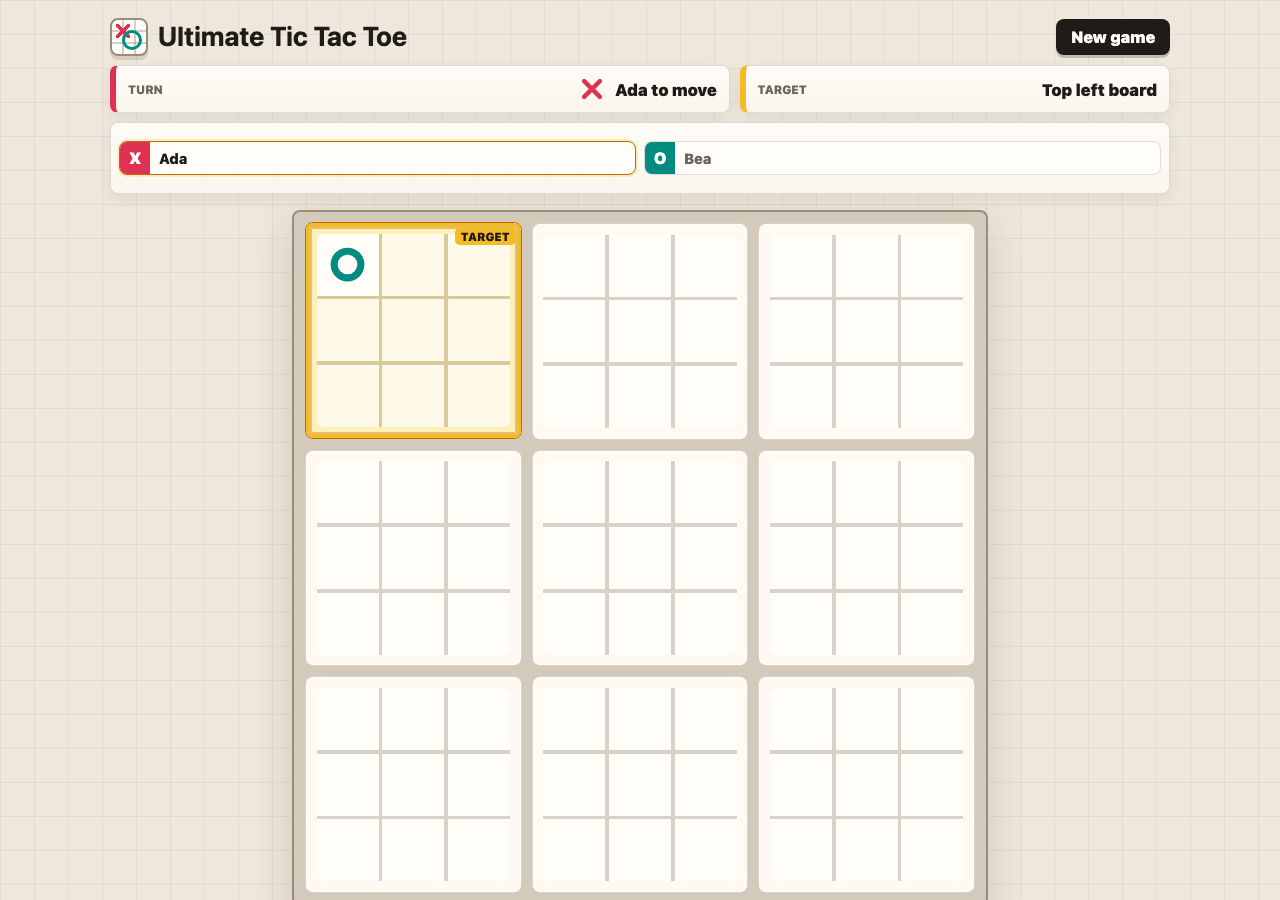
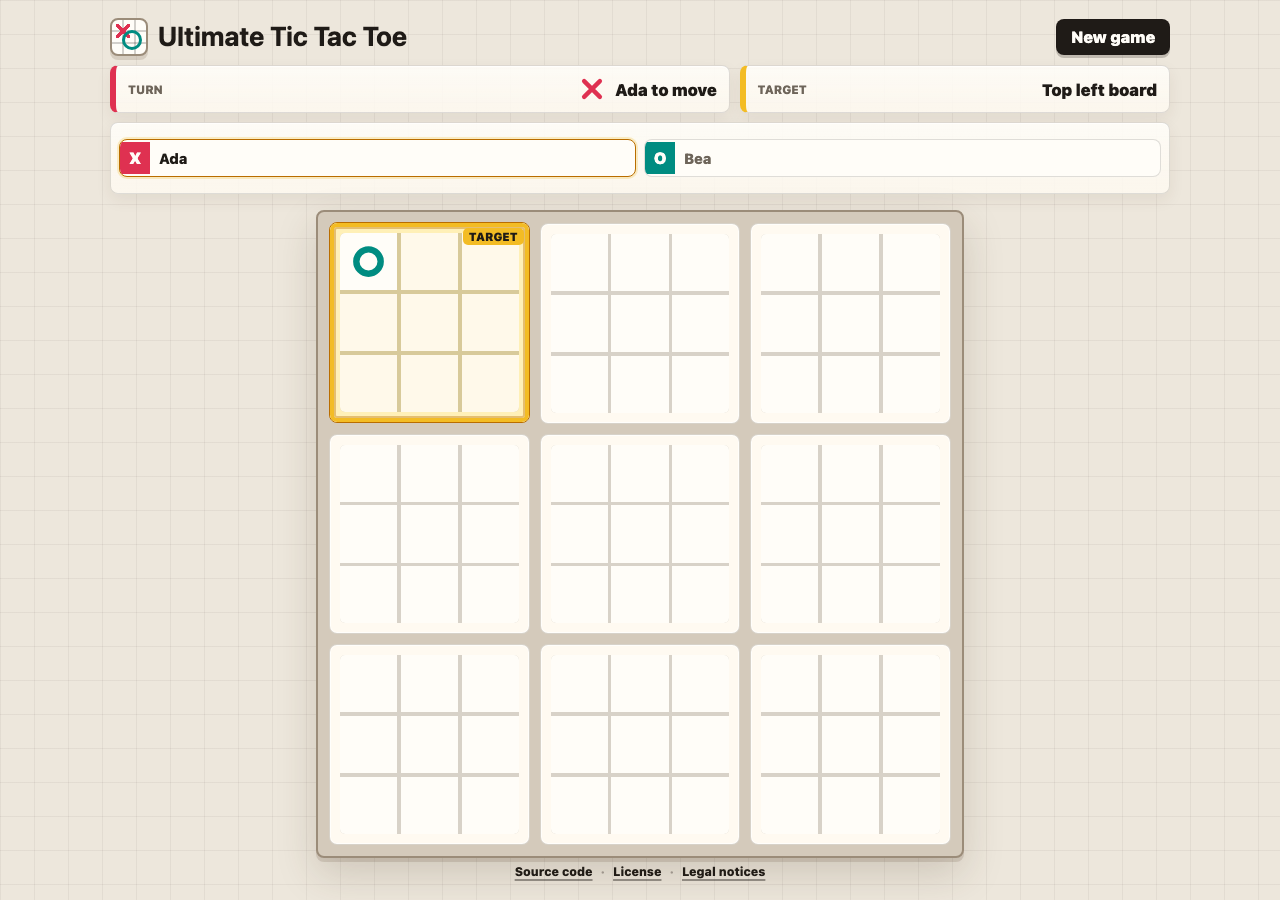
Stabilize player row screenshot baselines

Changed region(s): [[0.0938, 0.1867, 0.7812, 1.0], [0.0938, 0.1244, 0.4688, 0.1556]]

diff --git a/static/style.css b/static/style.css
@@ -409,6 +409,12 @@ h1{
     font-weight: 800;
 }
 
+.player-field input::placeholder{
+    color: var(--muted);
+    font-weight: 750;
+    opacity: 0.78;
+}
+
 .player-field input:focus{
     outline: 3px solid rgba(243, 188, 36, 0.38);
     outline-offset: -3px;
@@ -508,6 +514,7 @@ h1{
     grid-template-columns: 30px minmax(0, 1fr) auto;
     align-items: center;
     min-width: 0;
+    min-height: 38px;
     flex: 1 1 0;
     overflow: hidden;
     border: 1px solid rgba(31, 27, 23, 0.14);
@@ -599,10 +606,6 @@ h1{
     padding: clamp(7px, 1.25svh, 11px);
     background: var(--table);
     box-shadow: 0 16px 40px var(--shadow), 0 4px 0 rgba(109, 91, 68, 0.18);
-}
-
-.game-shell.is-started .macro-board{
-    width: min(92vw, calc(100svh - 174px - var(--footer-space)), 704px);
 }
 
 .local-board{

diff --git a/docs/RELIABILITY.md b/docs/RELIABILITY.md
@@ -36,7 +36,7 @@ the app locally without hidden service dependencies.
 - Use `scripts/validate-docs.lisp` for repository-harness validation.
 - Use `scripts/browser-smoke.mjs` for browser-driven desktop/mobile rendering,
   HTMX swap, computer-opponent play, CSRF-form, accessibility structure,
-  keyboard flow, modal focus, and overflow validation.
+  keyboard flow, modal focus, screenshot regression, and overflow validation.
 - Use `nix flake check` before treating a change as ready.
 - For larger UI work, still run the app manually when visual judgment matters;
   the smoke flow catches regressions but does not replace taste.

diff --git a/docs/technical-debt.md b/docs/technical-debt.md
@@ -9,7 +9,6 @@ focused patches.
 
 - Add a full accessibility audit, such as an axe-style check and a manual
   screen-reader pass.
-- Add pixel-diff visual regression checks for the refreshed screenshot flow.
 - Replace the string-based validation rules in
   `scripts/validate-architecture.lisp` with form-aware dependency checks if the
   source layout grows beyond a few Lisp files.